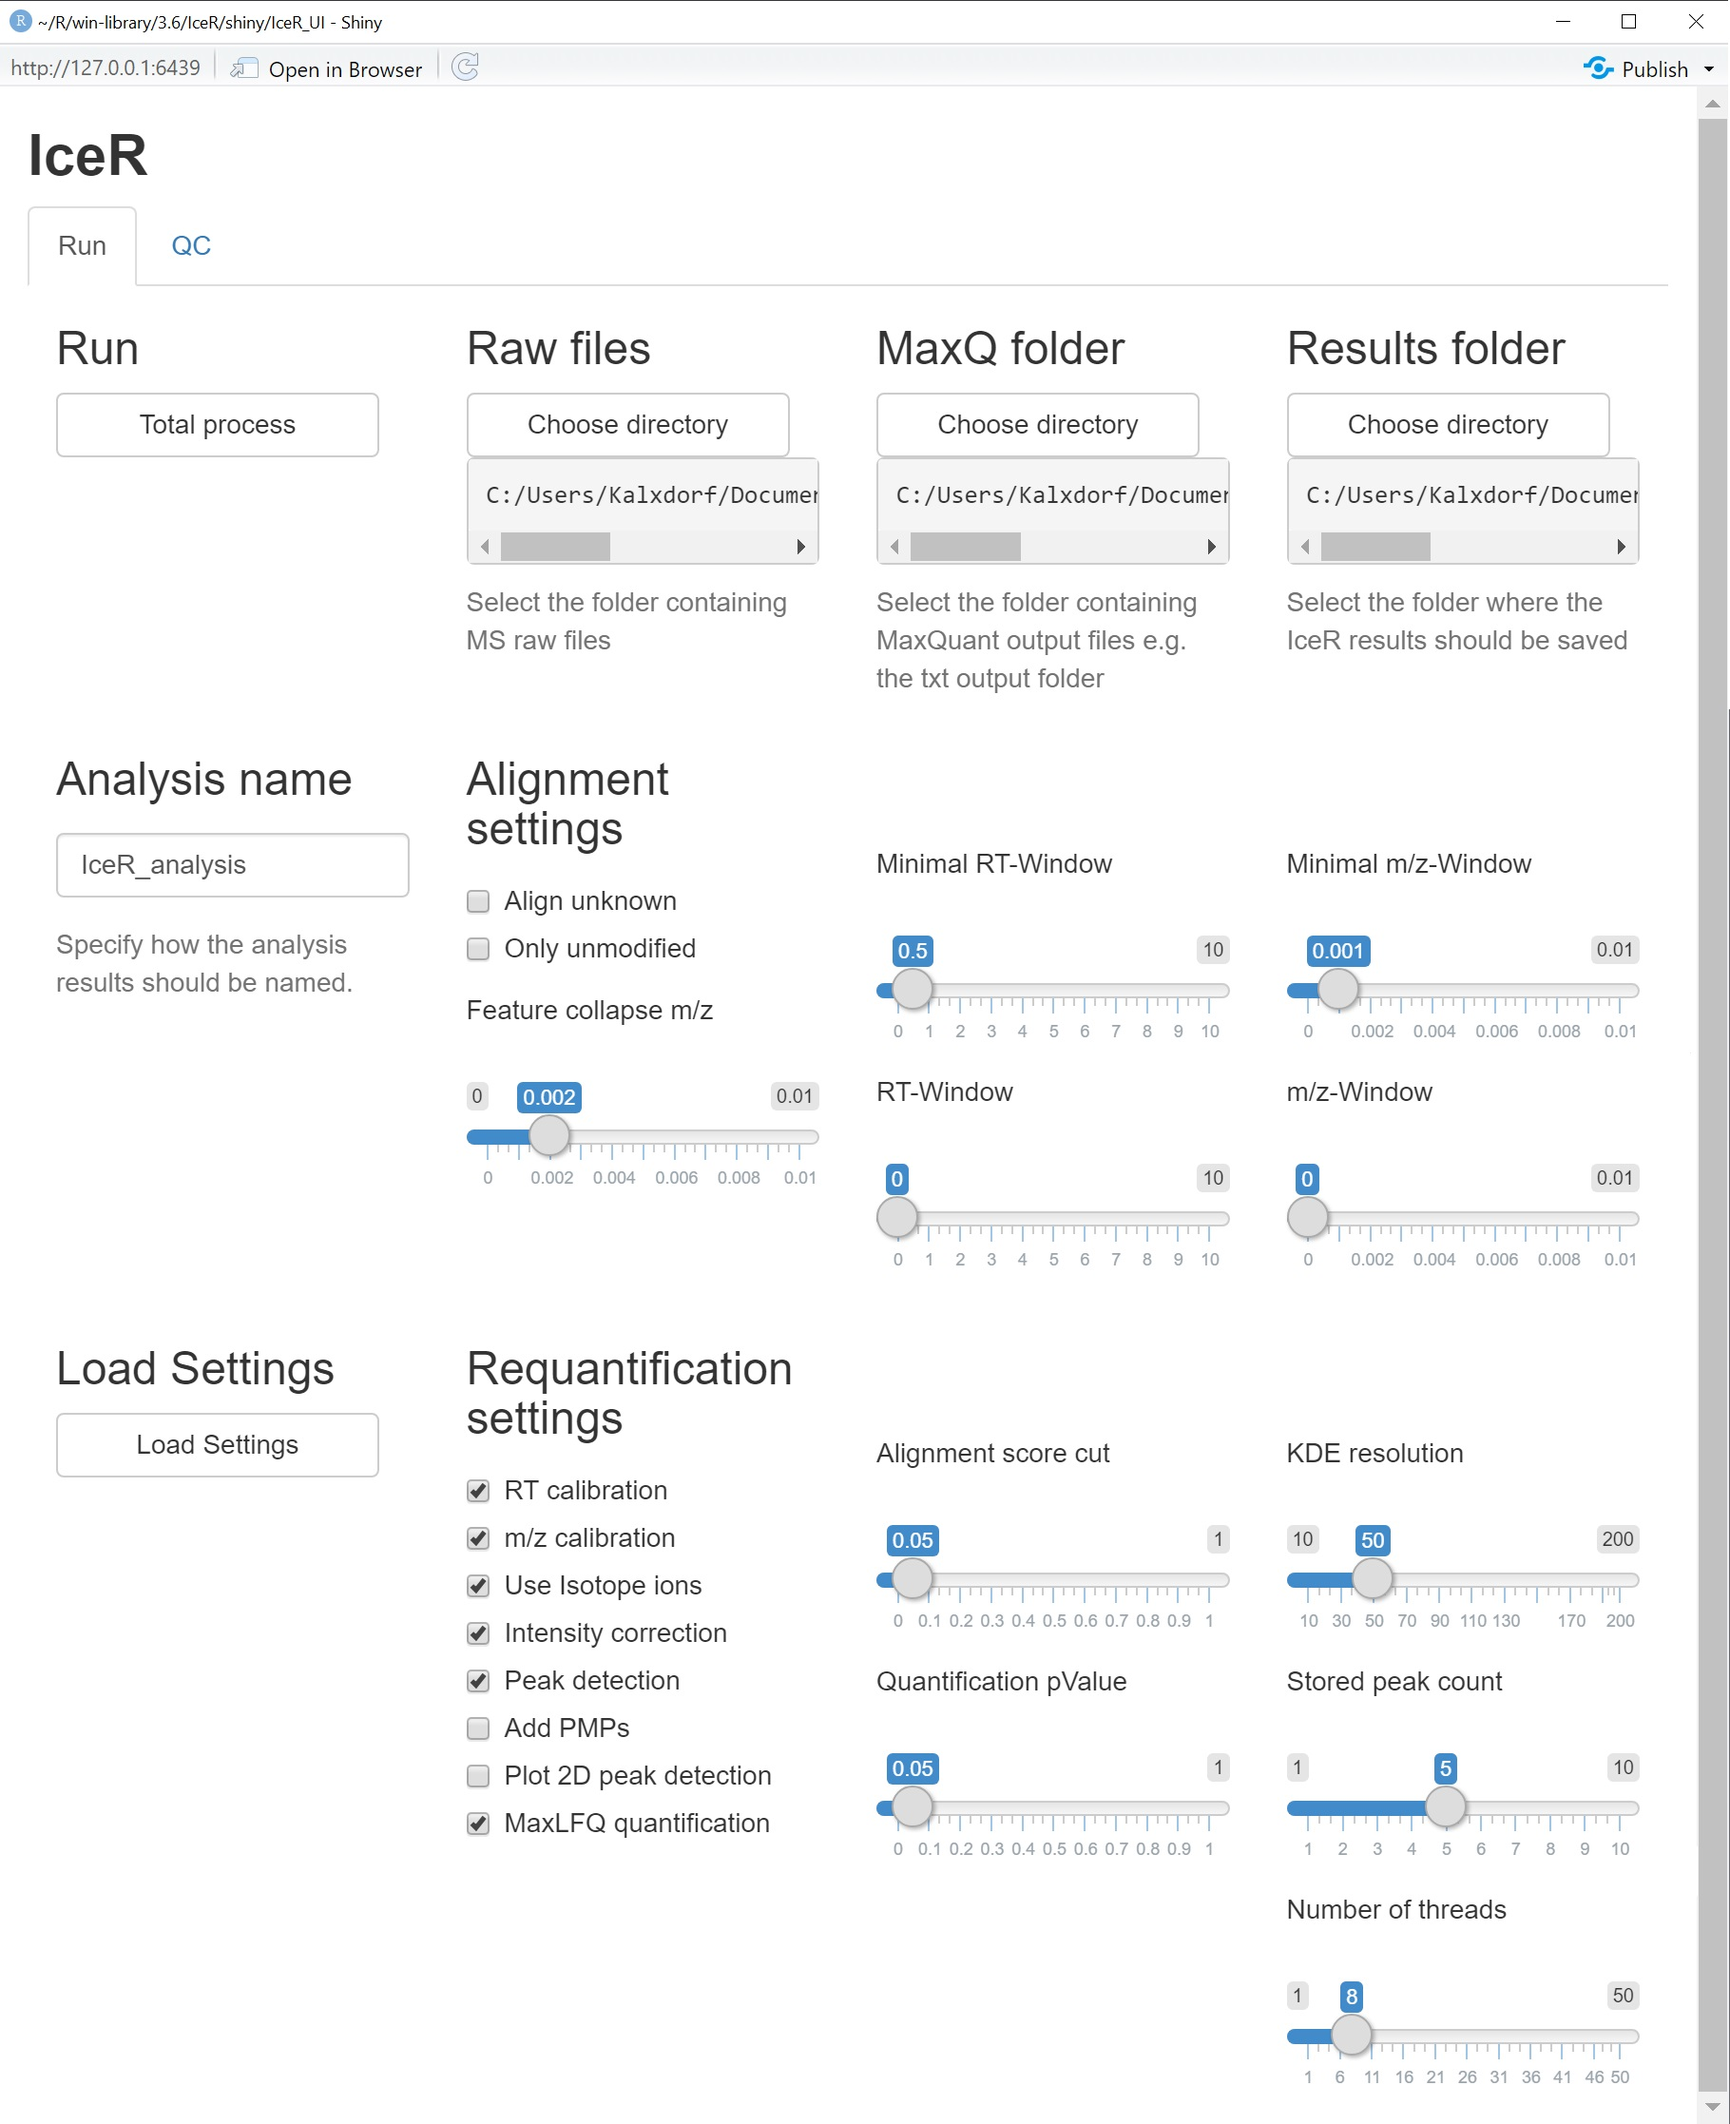
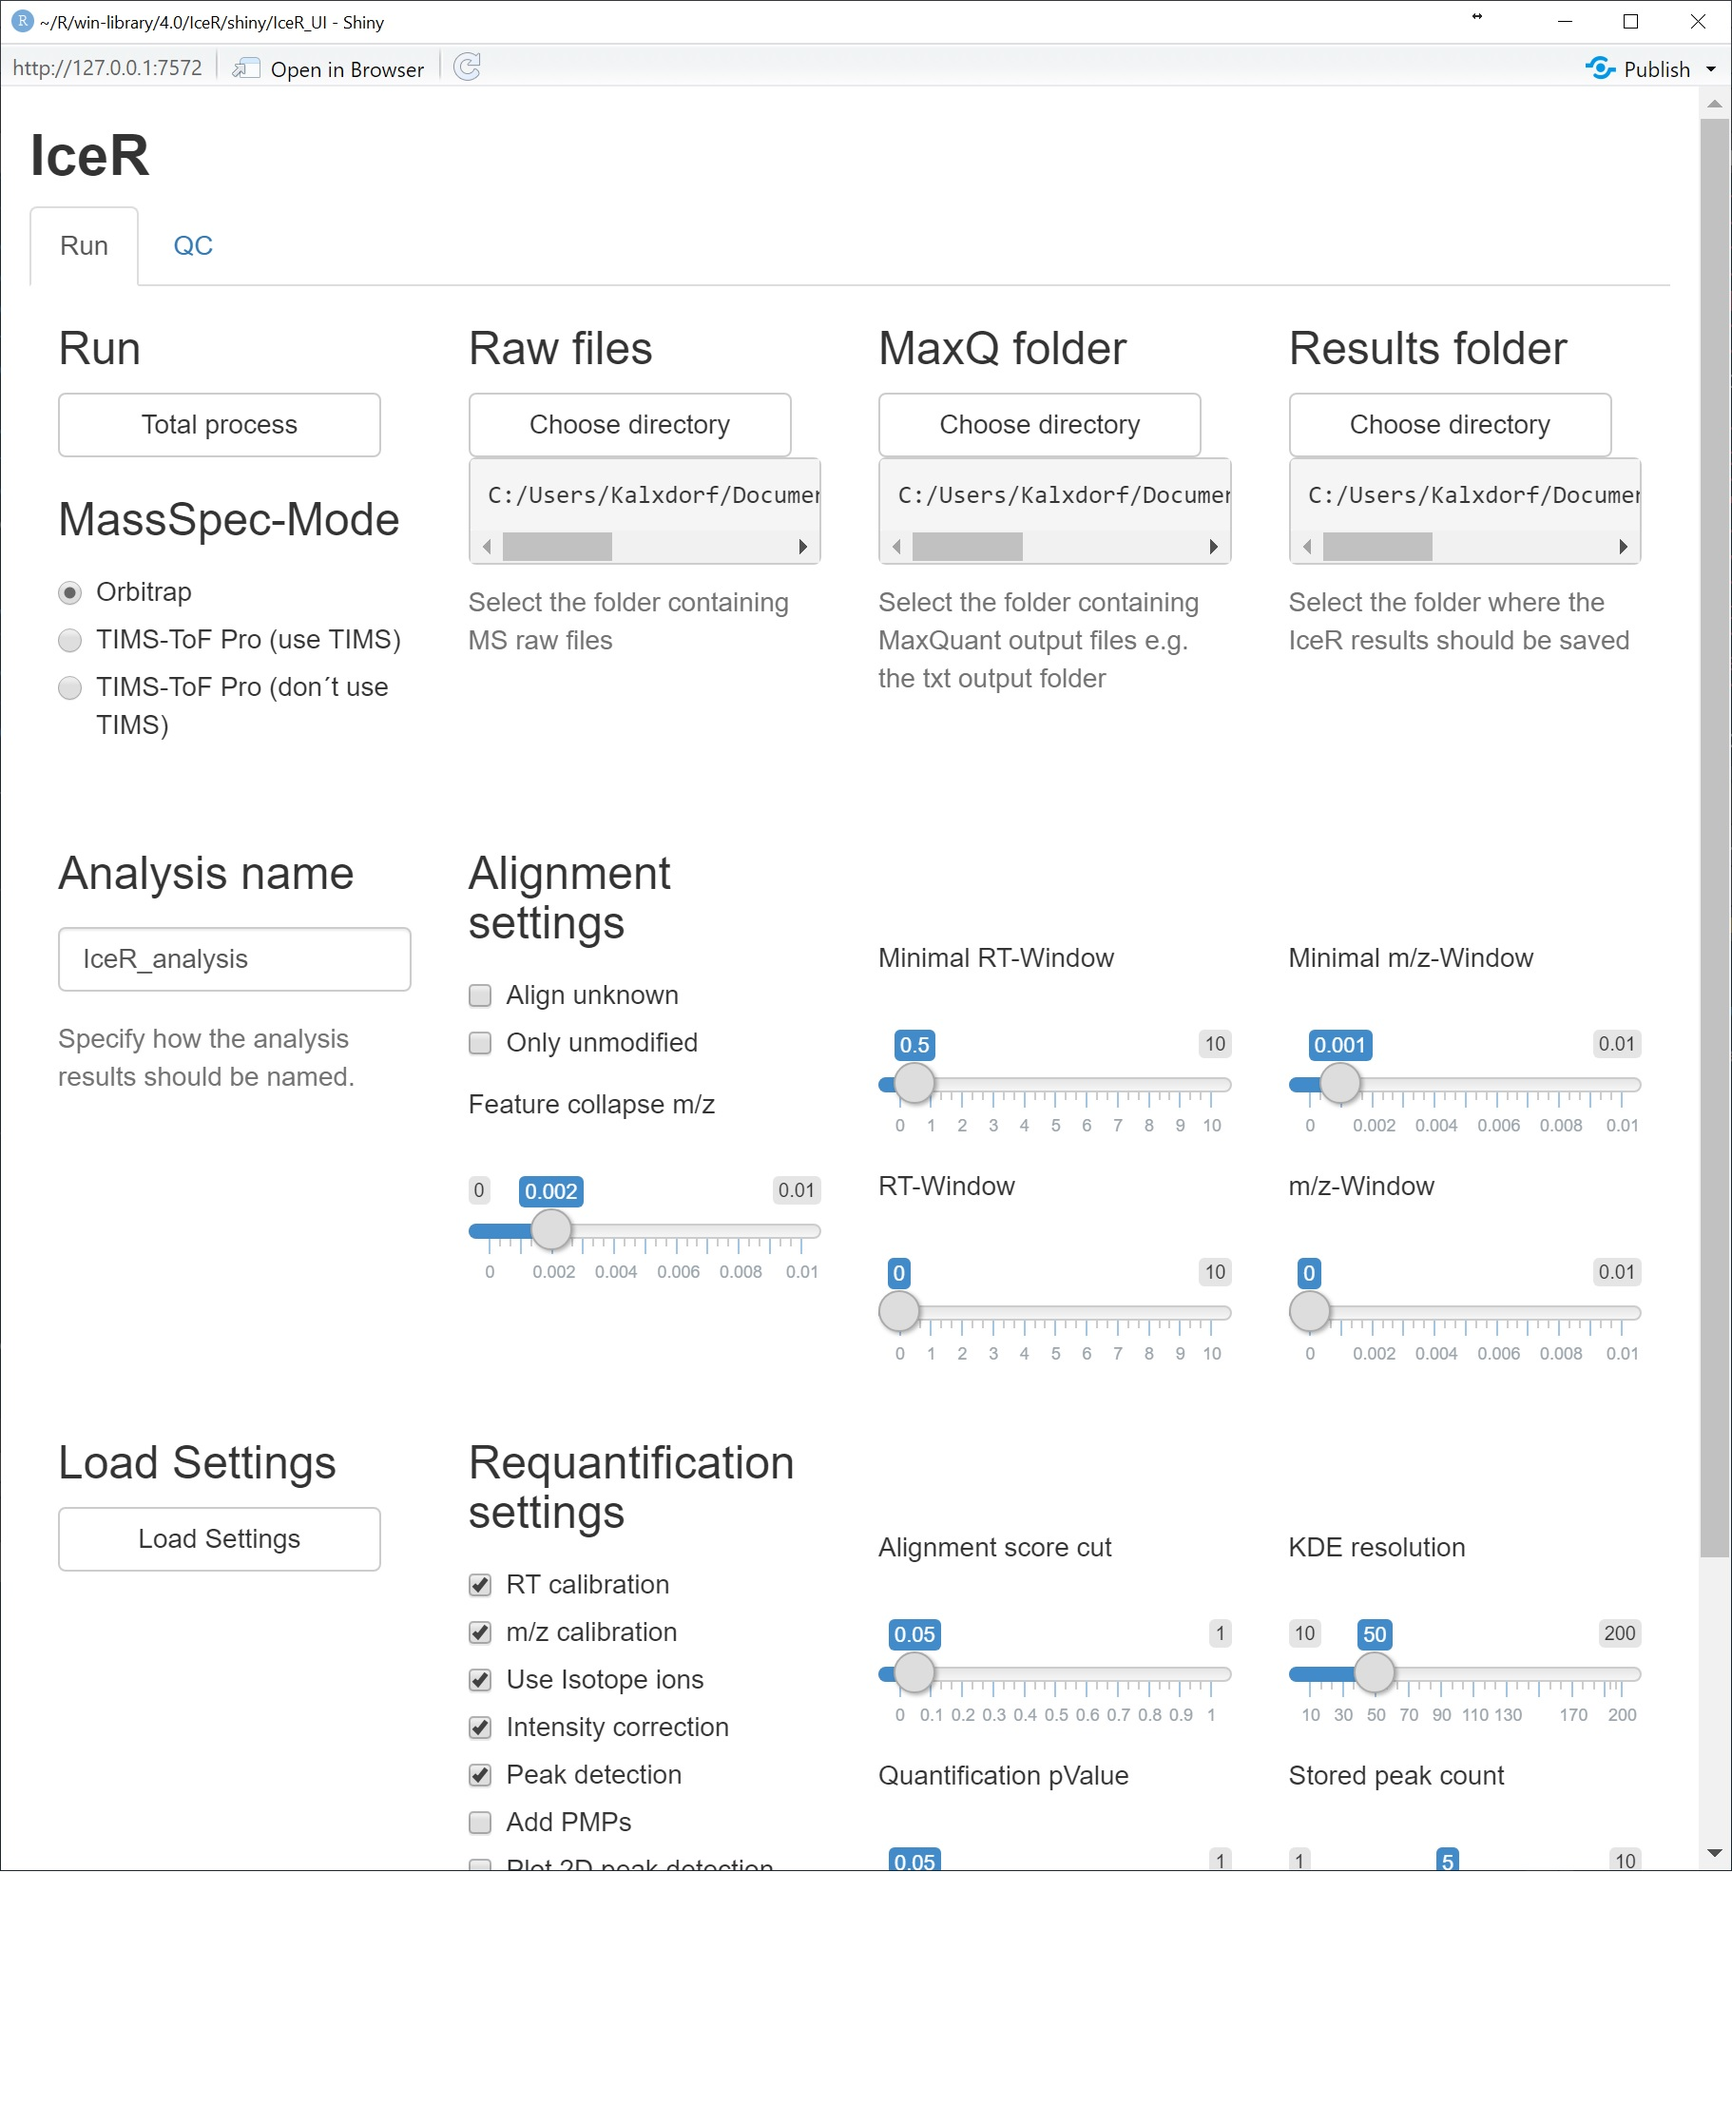
Updated description now also describing the use of IceR for TIMS-ToF data

diff --git a/README.md b/README.md
@@ -28,7 +28,9 @@ library(IceR)
 runIceR()
 ```
 ### Prerequisites
-The current version of IceR requires raw MS files (from Thermo Mass Spectrometers) to be preprocessed with MaxQuant (tested for Versions 1.5.1.2, 1.6.12 and 1.6.14, versions in between should work as well). Important note: Fasta file should be parsed correctly. In this case the column "Gene names" can be found in the proteinGroups.txt. Furthermore, raw files are required in the mzXML format. If msconvert from ProteoWizard is installed, IceR triggers conversion automatically. Otherwise, the user has to place the converted files in the folder "mzXML" within the folder containing the raw files. 
+The current version of IceR requires raw MS files (from Thermo Mass Spectrometers or from Bruker TIMS-ToF pro) to be preprocessed with MaxQuant (tested for Versions 1.5.1.2, 1.6.12 and 1.6.14, versions in between should work as well). Important note: Fasta file should be parsed correctly. In this case the column "Gene names" can be found in the proteinGroups.txt. Furthermore, raw Orbitrap files are required in the mzXML format and raw TIMS-ToF data has to be converted into a readable format. If msconvert from ProteoWizard is installed, IceR triggers conversion automatically. Otherwise, the user has to place the converted files in the folder "mzXML" in case of orbitrap data within the folder containing the raw files. Conversion of Bruker TIMS-ToF pro data is currently only possible if msConvert is installed. 
+
+Generally, the more ressources are available the faster the data analysis can be performed. Still, IceR can run reasonably well even on a normal PC/Laptop. However, in case of TIMS-ToF data a potent machine will be required due to the huge file sizes. Here it is recommended to at least allocate 128 gb of RAM to enable at maximum 3 samples to be processed. Furthermore, TIMS-ToF raw data currently has to be converted into a readable format which requires several hours per sample and at least 50 gb of space on the machines home drive. A future version of IceR will implement a faster conversion method.
 
 ### Example
 An example data set is stored [here](http://proteomecentral.proteomexchange.org/cgi/GetDataset). After running ...
@@ -44,12 +46,13 @@ runIceR()
 It allows setting up the IceR run. Among others, the following parameters can be modified:
 
  - Paths to raw files, MaxQuant results files and IceR output folder
+ - MassSpec Mode switching between Orbitrap and TIMS-ToF data (with or without using TIMS dimension)
  - Analysis name
  - Retention (RT) and m/z feature alignment windows
  - Kernel density estimation (KDE) resolution (increasing resolution increases computation workload but also increases resolution of peak detections) 
  - Number of peaks to be stored per quantification
  - Diagnostic and statistical significance cutoffs for quantifications
- - Number of threads to be used during IceR workflow (please check on your system specifications. Should not be higher than numbers of samples to be analyzed. Number of threads should be also adapted to available RAM)
+ - Number of threads to be used during IceR workflow (please check on your system specifications. Should not be higher than numbers of samples to be analyzed. Number of threads should be also adapted to available RAM. In case of TIMS-ToF data, a single 2h gradient acquisition run will require ~ 40 gb of RAM, hence, number of threads will be automatically limited in this case to 3 parallel threads)
 
 We can keep all settings at default but reduce number of threads to 4. After clicking on "Total process", the IceR workflow will start. A detailed description of the individual steps can be found in the original publication [IceR](https://pubmed.ncbi.nlm.nih.gov/)
 

diff --git a/index.md b/index.md
@@ -27,7 +27,9 @@ library(IceR)
 runIceR()
 ```
 ### Prerequisites
-The current version of IceR requires raw MS files (from Thermo Mass Spectrometers) to be preprocessed with MaxQuant (tested for Versions 1.5.1.2, 1.6.12 and 1.6.14, versions in between should work as well). Important note: Fasta file should be parsed correctly. In this case the column "Gene names" can be found in the proteinGroups.txt. Furthermore, raw files are required in the mzXML format. If msconvert from ProteoWizard is installed, IceR triggers conversion automatically. Otherwise, the user has to place the converted files in the folder "mzXML" within the folder containing the raw files. 
+The current version of IceR requires raw MS files (from Thermo Mass Spectrometers or from Bruker TIMS-ToF pro) to be preprocessed with MaxQuant (tested for Versions 1.5.1.2, 1.6.12 and 1.6.14, versions in between should work as well). Important note: Fasta file should be parsed correctly. In this case the column "Gene names" can be found in the proteinGroups.txt. Furthermore, raw Orbitrap files are required in the mzXML format and raw TIMS-ToF data has to be converted into a readable format. If msconvert from ProteoWizard is installed, IceR triggers conversion automatically. Otherwise, the user has to place the converted files in the folder "mzXML" in case of orbitrap data within the folder containing the raw files. Conversion of Bruker TIMS-ToF pro data is currently only possible if msConvert is installed. 
+
+Generally, the more ressources are available the faster the data analysis can be performed. Still, IceR can run reasonably well even on a normal PC/Laptop. However, in case of TIMS-ToF data a potent machine will be required due to the huge file sizes. Here it is recommended to at least allocate 128 gb of RAM to enable at maximum 3 samples to be processed. Furthermore, TIMS-ToF raw data currently has to be converted into a readable format which requires several hours per sample and at least 50 gb of space on the machines home drive. A future version of IceR will implement a faster conversion method.
 
 ### Example
 An example data set is stored [here](http://proteomecentral.proteomexchange.org/cgi/GetDataset). After running ...
@@ -43,12 +45,13 @@ runIceR()
 It allows setting up the IceR run. Among others, the following parameters can be modified:
 
  - Paths to raw files, MaxQuant results files and IceR output folder
+ - MassSpec Mode switching between Orbitrap and TIMS-ToF data (with or without using TIMS dimension)
  - Analysis name
  - Retention (RT) and m/z feature alignment windows
  - Kernel density estimation (KDE) resolution (increasing resolution increases computation workload but also increases resolution of peak detections) 
  - Number of peaks to be stored per quantification
  - Diagnostic and statistical significance cutoffs for quantifications
- - Number of threads to be used during IceR workflow (please check on your system specifications. Should not be higher than numbers of samples to be analyzed. Number of threads should be also adapted to available RAM)
+ - Number of threads to be used during IceR workflow (please check on your system specifications. Should not be higher than numbers of samples to be analyzed. Number of threads should be also adapted to available RAM. In case of TIMS-ToF data, a single 2h gradient acquisition run will require ~ 40 gb of RAM, hence, number of threads will be automatically limited in this case to 3 parallel threads)
 
 We can keep all settings at default but reduce number of threads to 4. After clicking on "Total process", the IceR workflow will start. A detailed description of the individual steps can be found in the original publication [IceR](https://pubmed.ncbi.nlm.nih.gov/)
 
